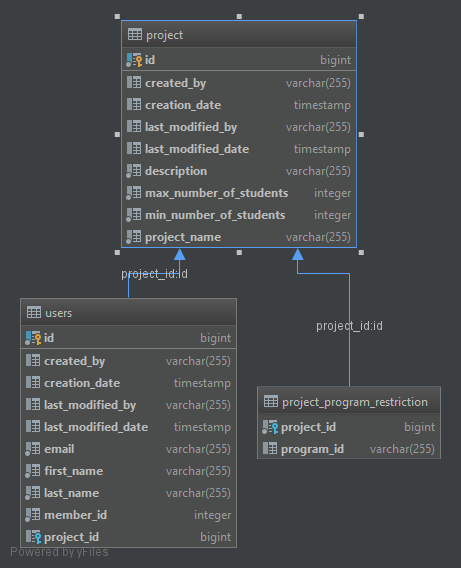
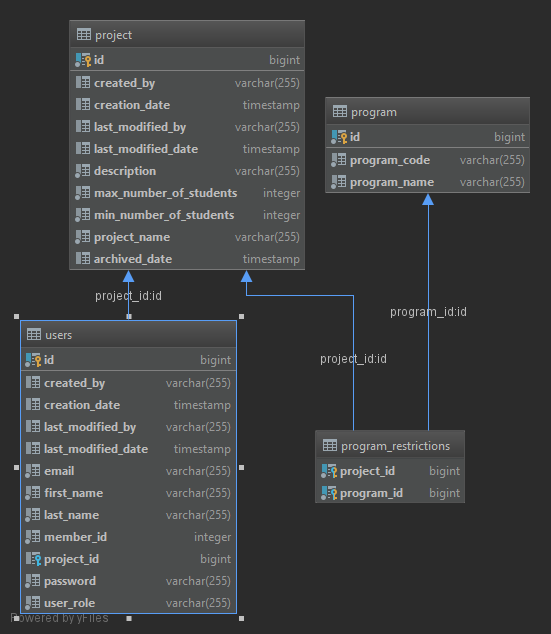
Issue-74: Converted Program enum into an entity class with a corresponding repository and service class Initialize the program table programatically using a data loader upon application start up /professor and /projects view edited to display the progam restrictions of a project Updated the database

diff --git a/src/main/resources/templates/editproject.html b/src/main/resources/templates/editproject.html
@@ -32,14 +32,14 @@
                 <input type="number" name="max-students" placeholder="5" th:field="*{maxNumberOfStudents}">
             </div>
         </div>
-        <div class="grouped fields">
+        <div class="field">
             <label>Program Restrictions</label>
-            <div class="field" th:each="program:${programs}">
-                <div class="ui checkbox">
-                    <input type="checkbox" th:field="*{programRestrictions}" name="project_restrictions" th:value="${program}">
-                    <label th:text="${program.programName}"></label>
+            <select class="ui fluid search dropdown" multiple="" th:field="*{programRestrictions}" name="project_restrictions" th:value="${program}">
+                <option value="">Program Restrictions</option>
+                <div class="field" th:each="program:${programs}">
+                    <option th:value="${program.id}" th:text="${program.programName}"></option>
                 </div>
-            </div>
+            </select>
         </div>
         <div style="display: none;">
             <input type="number" name="project-id" th:placeholder="${project.id}" th:field="*{id}">

diff --git a/src/main/resources/templates/addproject.html b/src/main/resources/templates/addproject.html
@@ -32,14 +32,14 @@
                 <input type="number" name="max-students" placeholder="5" th:field="*{maxNumberOfStudents}">
             </div>
         </div>
-        <div class="grouped fields">
+        <div class="field">
             <label>Program Restrictions</label>
-            <div class="field" th:each="program:${programs}">
-                <div class="ui checkbox">
-                    <input type="checkbox" th:field="*{programRestrictions}" name="project_restrictions" th:value="${program}">
-                    <label th:text="${program.programName}"></label>
+            <select class="ui fluid search dropdown" multiple="" th:field="*{programRestrictions}" name="project_restrictions" th:value="${program}">
+                <option value="">Program Restrictions</option>
+                <div class="field" th:each="program:${programs}">
+                    <option th:value="${program.id}" th:text="${program.programName}"></option>
                 </div>
-            </div>
+            </select>
         </div>
         <button class="ui button primary" type="submit">Submit</button>
     </form>

diff --git a/src/main/resources/templates/professor.html b/src/main/resources/templates/professor.html
@@ -28,7 +28,11 @@
             <tr th:each="project: ${projects}">
                 <td rowspan="1" th:text="${project.id}"></td>
                 <td rowspan="1" th:text="${project.projectName}"></td>
-                <td rowspan="1">SE</td>
+                <td rowspan="1">
+                    <div class="ui labels">
+                        <div class="ui label" th:each="program: ${project.programRestrictions}" th:text="${program.programCode}"></div>
+                    </div>
+                </td>
                 <td rowspan="1">
                     <a th:href="'/project/edit?id=' + ${project.id}">
                         <div class="ui vertical animated blue button" tabindex="0">

diff --git a/src/main/resources/templates/projects.html b/src/main/resources/templates/projects.html
@@ -29,7 +29,11 @@
             <tr th:each="project: ${projects}">
                 <td rowspan="1" th:text="${project.id}"></td>
                 <td rowspan="1" th:text="${project.projectName}"></td>
-                <td rowspan="1">SE</td>
+                <td rowspan="1">
+                    <div class="ui labels">
+                        <div class="ui label" th:each="program: ${project.programRestrictions}" th:text="${program.programCode}"></div>
+                    </div>
+                </td>
             </tr>
         </div>
         </tbody>

diff --git a/src/main/resources/static/js/custom.js b/src/main/resources/static/js/custom.js
@@ -2,4 +2,6 @@ $(document).ready(function() {
     $('.ui.dropdown.top-right')
         .dropdown()
     $('.ui.dropdown.signup-roles').dropdown()
+    $('select.dropdown')
+        .dropdown()
 });

diff --git a/src/test/java/com/eggplant/emoji/controller/ProfessorControllerTest.java b/src/test/java/com/eggplant/emoji/controller/ProfessorControllerTest.java
@@ -1,7 +1,10 @@
 package com.eggplant.emoji.controller;
 
+import com.eggplant.emoji.entities.Program;
 import com.eggplant.emoji.entities.Project;
+import com.eggplant.emoji.service.ProgramService;
 import com.eggplant.emoji.service.ProjectService;
+import org.assertj.core.util.Arrays;
 import org.junit.After;
 import org.junit.Test;
 import org.junit.runner.RunWith;
@@ -15,11 +18,12 @@ import org.springframework.web.servlet.ModelAndView;
 
 import org.hamcrest.Matchers;
 
-import static org.hamcrest.Matchers.containsString;
-import static org.junit.Assert.assertEquals;
-import static org.junit.Assert.assertNotNull;
-import static org.junit.Assert.assertNull;
+import java.util.List;
+import java.util.stream.Collectors;
 
+import static org.hamcrest.Matchers.containsString;
+
+import static org.junit.Assert.*;
 import static org.springframework.test.web.servlet.request.MockMvcRequestBuilders.get;
 import static org.springframework.test.web.servlet.request.MockMvcRequestBuilders.post;
 import static org.springframework.test.web.servlet.result.MockMvcResultMatchers.content;
@@ -35,6 +39,9 @@ public class ProfessorControllerTest {
 
     @Autowired
     private ProjectService projectService;
+
+    @Autowired
+    private ProgramService programService;
 
 
     /**
@@ -61,6 +68,8 @@ public class ProfessorControllerTest {
     public void addProject() throws Exception {
         String projectName = "addProjectTest name";
         String projectDescription = "addProjectTest description";
+        List<Program> programs = programService.findAll();
+        List<String> programIdString = programService.findAll().stream().map(program -> program.getId().toString()).collect(Collectors.toList());
 
         try {
             MvcResult result = this.mockMvc.perform(post("/project/add")
@@ -68,9 +77,7 @@ public class ProfessorControllerTest {
                     .param("description",projectDescription)
                     .param("minNumberOfStudents","2")
                     .param("maxNumberOfStudents","5")
-                    .param("programRestrictions", "BIOMEDICAL_ELECTRICAL",
-                                                                "ELECTRICAL_ENGINEERING",
-                                                                "COMPUTER_SYSTEMS_ENGINEERING"))
+                    .param("programRestrictions", programIdString.toArray(new String[0])))
                     .andExpect(status().isFound())
                     .andReturn();
             ModelAndView modelAndView = result.getModelAndView();
@@ -84,6 +91,9 @@ public class ProfessorControllerTest {
             assertEquals(projectDescription, addedProject.getDescription());
             assertEquals(2, addedProject.getMinNumberOfStudents());
             assertEquals(5, addedProject.getMaxNumberOfStudents());
+            assertTrue(programs.size() == addedProject.getProgramRestrictions().size() &&
+                    programs.containsAll(addedProject.getProgramRestrictions()) &&
+                    addedProject.getProgramRestrictions().containsAll(programs));
 
             //remove the project that we tested
             this.projectService.removeProjectByName(projectName);

diff --git a/src/main/java/com/eggplant/emoji/entities/Project.java b/src/main/java/com/eggplant/emoji/entities/Project.java
@@ -2,11 +2,7 @@ package com.eggplant.emoji.entities;
 
 import org.springframework.transaction.annotation.Transactional;
 
-import java.util.EnumSet;
-import java.util.Date;
-import java.util.List;
-import java.util.ArrayList;
-import java.util.Set;
+import java.util.*;
 import javax.persistence.*;
 import javax.validation.constraints.Max;
 import javax.validation.constraints.Min;
@@ -35,12 +31,14 @@ public class Project extends Auditable<String> {
     @Max(MAXIMUM_NUMBER_OF_STUDENTS_FOR_ANY_PROJECT)
     private int maxNumberOfStudents;
 
-    @ElementCollection(targetClass = Program.class)
-    @CollectionTable(name = "project_programRestriction",
-            joinColumns = @JoinColumn(name = "project_id"))
-    @Enumerated(EnumType.STRING)
-    @Column(name = "program_id")
-    private Set<Program> programRestrictions;
+    @ManyToMany(cascade = CascadeType.ALL, fetch=FetchType.EAGER)
+    @JoinTable(
+            name = "Program_Restrictions",
+            joinColumns = @JoinColumn(
+                    name = "project_id", referencedColumnName = "id"),
+            inverseJoinColumns = @JoinColumn(
+                    name = "program_id", referencedColumnName = "id"))
+    private Collection<Program> programRestrictions;
 
     @NotNull
     @OneToMany(mappedBy="project", cascade = CascadeType.ALL)
@@ -81,8 +79,8 @@ public class Project extends Auditable<String> {
     public List<User> getStudents() { return this.students; }
     public void setStudents(List<User> students) { this.students = students; }
 
-    public Set<Program> getProgramRestrictions() { return this.programRestrictions; }
-    public void setProgramRestrictions(Set<Program> programRestrictions) { this.programRestrictions = programRestrictions; }
+    public Collection<Program> getProgramRestrictions() { return this.programRestrictions; }
+    public void setProgramRestrictions(Collection<Program> programRestrictions) { this.programRestrictions = programRestrictions; }
 
     public Date getArchivedDate() { return this.archivedDate; }
     public void setArchivedDate(Date date) { this.archivedDate = date; }

diff --git a/src/main/java/com/eggplant/emoji/entities/Program.java b/src/main/java/com/eggplant/emoji/entities/Program.java
@@ -2,15 +2,12 @@ package com.eggplant.emoji.entities;
 
 import javax.persistence.*;
 import javax.validation.constraints.NotNull;
+import java.util.Collection;
+import java.util.Objects;
 
 @Entity
 @Table(name = "program")
 public class Program {
-//    BIOMEDICAL_ELECTRICAL("Biomedical Electrical", "BE"),
-//    COMMUNICATION_ENGINEERING("Communication Engineering", "CE"),
-//    COMPUTER_SYSTEMS_ENGINEERING("Computer Systems Engineering", "CSE"),
-//    SOFTWARE_ENGINEERING("Software Engineering", "SE"),
-//    ELECTRICAL_ENGINEERING("Electrical Engineering", "EE");
 
     @Id
     @GeneratedValue(strategy = GenerationType.AUTO)
@@ -22,7 +19,12 @@ public class Program {
     @NotNull
     private String programCode;
 
-    Program(String programName, String programCode) {
+    @ManyToMany(mappedBy = "programRestrictions")
+    private Collection<Project> projects;
+
+    public Program(){this("Default","Default");}
+
+    public Program(String programName, String programCode) {
         this.programName = programName;
         this.programCode = programCode;
     }
@@ -36,6 +38,20 @@ public class Program {
     public String getProgramCode() { return programCode; }
     public void setProgramCode(String programCode) { this.programCode = programCode; }
 
+    public Collection<Project> getProjects() { return projects; }
+    public void setProjects(Collection<Project> projects) { this.projects = projects; }
 
-
+    @Override
+    public boolean equals(Object obj) {
+        if (this == obj)
+            return true;
+        if (obj == null)
+            return false;
+        if (getClass() != obj.getClass())
+            return false;
+        Program program = (Program) obj;
+        return Objects.equals(id, program.id) &&
+                Objects.equals(programName, program.programName) &&
+                Objects.equals(programCode, program.programCode);
+    }
 }

diff --git a/src/test/java/com/eggplant/emoji/service/ProgramServiceTest.java b/src/test/java/com/eggplant/emoji/service/ProgramServiceTest.java
@@ -1,0 +1,52 @@
+package com.eggplant.emoji.service;
+
+import com.eggplant.emoji.entities.Program;
+import com.eggplant.emoji.entities.Project;
+import com.eggplant.emoji.repository.ProgramRepository;
+import org.junit.Test;
+import org.junit.runner.RunWith;
+import org.springframework.beans.factory.annotation.Autowired;
+import org.springframework.boot.test.context.SpringBootTest;
+import org.springframework.test.context.junit4.SpringRunner;
+
+import static org.junit.Assert.assertTrue;
+
+@RunWith(SpringRunner.class)
+@SpringBootTest
+public class ProgramServiceTest {
+
+    @Autowired
+    ProgramService programService;
+
+    @Autowired
+    ProgramRepository programRepository;
+
+    @Test
+    public void test_add_new_program(){
+        Program dummyProgram = new Program();
+        dummyProgram.setProgramName("Test add new Program");
+        dummyProgram.setProgramCode("CODE");
+
+        programService.addProgram(dummyProgram);
+
+        // verify it got saved
+        Program p = programRepository.findByProgramName("Test add new Program");
+        assertTrue(p.getProgramName().equals(dummyProgram.getProgramName()));
+        assertTrue(p.getProgramCode().equals(dummyProgram.getProgramCode()));
+
+        //remove the project
+        programRepository.deleteProgramByProgramName(dummyProgram.getProgramName());
+    }
+
+    @Test
+    public void test_delete_program() {
+        Program dummyProgram = new Program();
+        dummyProgram.setProgramName("Test delete new Program");
+
+        programService.addProgram(dummyProgram);
+        programService.removeProgramByName(dummyProgram.getProgramName());
+
+        assertTrue(programRepository.findByProgramName(dummyProgram.getProgramName()) == null);
+
+    }
+}

diff --git a/src/main/java/com/eggplant/emoji/controller/ProfessorController.java b/src/main/java/com/eggplant/emoji/controller/ProfessorController.java
@@ -2,6 +2,8 @@ package com.eggplant.emoji.controller;
 
 import com.eggplant.emoji.entities.Program;
 import com.eggplant.emoji.entities.Project;
+import com.eggplant.emoji.repository.ProgramRepository;
+import com.eggplant.emoji.service.ProgramService;
 import com.eggplant.emoji.service.ProjectService;
 import org.springframework.beans.factory.annotation.Autowired;
 import org.springframework.stereotype.Controller;
@@ -25,6 +27,9 @@ public class ProfessorController {
 
     @Autowired
     private ProjectService projectService;
+
+    @Autowired
+    private ProgramService programService;
 
     /**
      * GET request that returns the professor view
@@ -77,7 +82,7 @@ public class ProfessorController {
     @GetMapping("/project/add")
     public String getAddProject(Model model){
         model.addAttribute("project", new Project());
-        model.addAttribute("programs", EnumSet.allOf(Program.class));
+        model.addAttribute("programs", programService.findAll());
         return "addproject";
     }
 
@@ -106,7 +111,7 @@ public class ProfessorController {
     public String getEditProject(@RequestParam("id") Long projectId, Model model){
         Project existingProject = projectService.findById(projectId);
         model.addAttribute("project", existingProject);
-        model.addAttribute("programs", EnumSet.allOf(Program.class));
+        model.addAttribute("programs", programService.findAll());
         return "editproject";
     }
 

diff --git a/src/main/java/com/eggplant/emoji/configuration/DataLoader.java b/src/main/java/com/eggplant/emoji/configuration/DataLoader.java
@@ -1,0 +1,27 @@
+package com.eggplant.emoji.configuration;
+
+import com.eggplant.emoji.entities.Program;
+import com.eggplant.emoji.service.ProgramService;
+import org.springframework.beans.factory.annotation.Autowired;
+import org.springframework.boot.ApplicationArguments;
+import org.springframework.boot.ApplicationRunner;
+import org.springframework.stereotype.Component;
+
+@Component
+public class DataLoader implements ApplicationRunner {
+
+    private ProgramService programService;
+
+    @Autowired
+    public DataLoader(ProgramService programService) {
+        this.programService = programService;
+    }
+
+    public void run(ApplicationArguments args) {
+        programService.addProgram(new Program("Biomedical Electrical", "BE"));
+        programService.addProgram(new Program("Communication Engineering", "CE"));
+        programService.addProgram(new Program("Computer Systems Engineering", "CSE"));
+        programService.addProgram(new Program("Software Engineering", "SE"));
+        programService.addProgram(new Program("Electrical Engineering", "EE"));
+    }
+}

diff --git a/src/main/java/com/eggplant/emoji/service/ProgramService.java b/src/main/java/com/eggplant/emoji/service/ProgramService.java
@@ -1,0 +1,24 @@
+package com.eggplant.emoji.service;
+
+import com.eggplant.emoji.entities.Program;
+import com.eggplant.emoji.repository.ProgramRepository;
+import org.springframework.beans.factory.annotation.Autowired;
+import org.springframework.stereotype.Service;
+
+import java.util.List;
+
+@Service
+public class ProgramService {
+    @Autowired
+    private ProgramRepository programRepository;
+
+    public List<Program> findAll() { return programRepository.findAllByOrderByIdAsc(); }
+
+    public void addProgram(Program program) {
+        if(!programRepository.existsByProgramNameAndProgramCode(program.getProgramName(), program.getProgramCode())){
+            programRepository.save(program);
+        }
+    }
+
+    public void removeProgramByName(String name) { programRepository.deleteProgramByProgramName(name); }
+}
